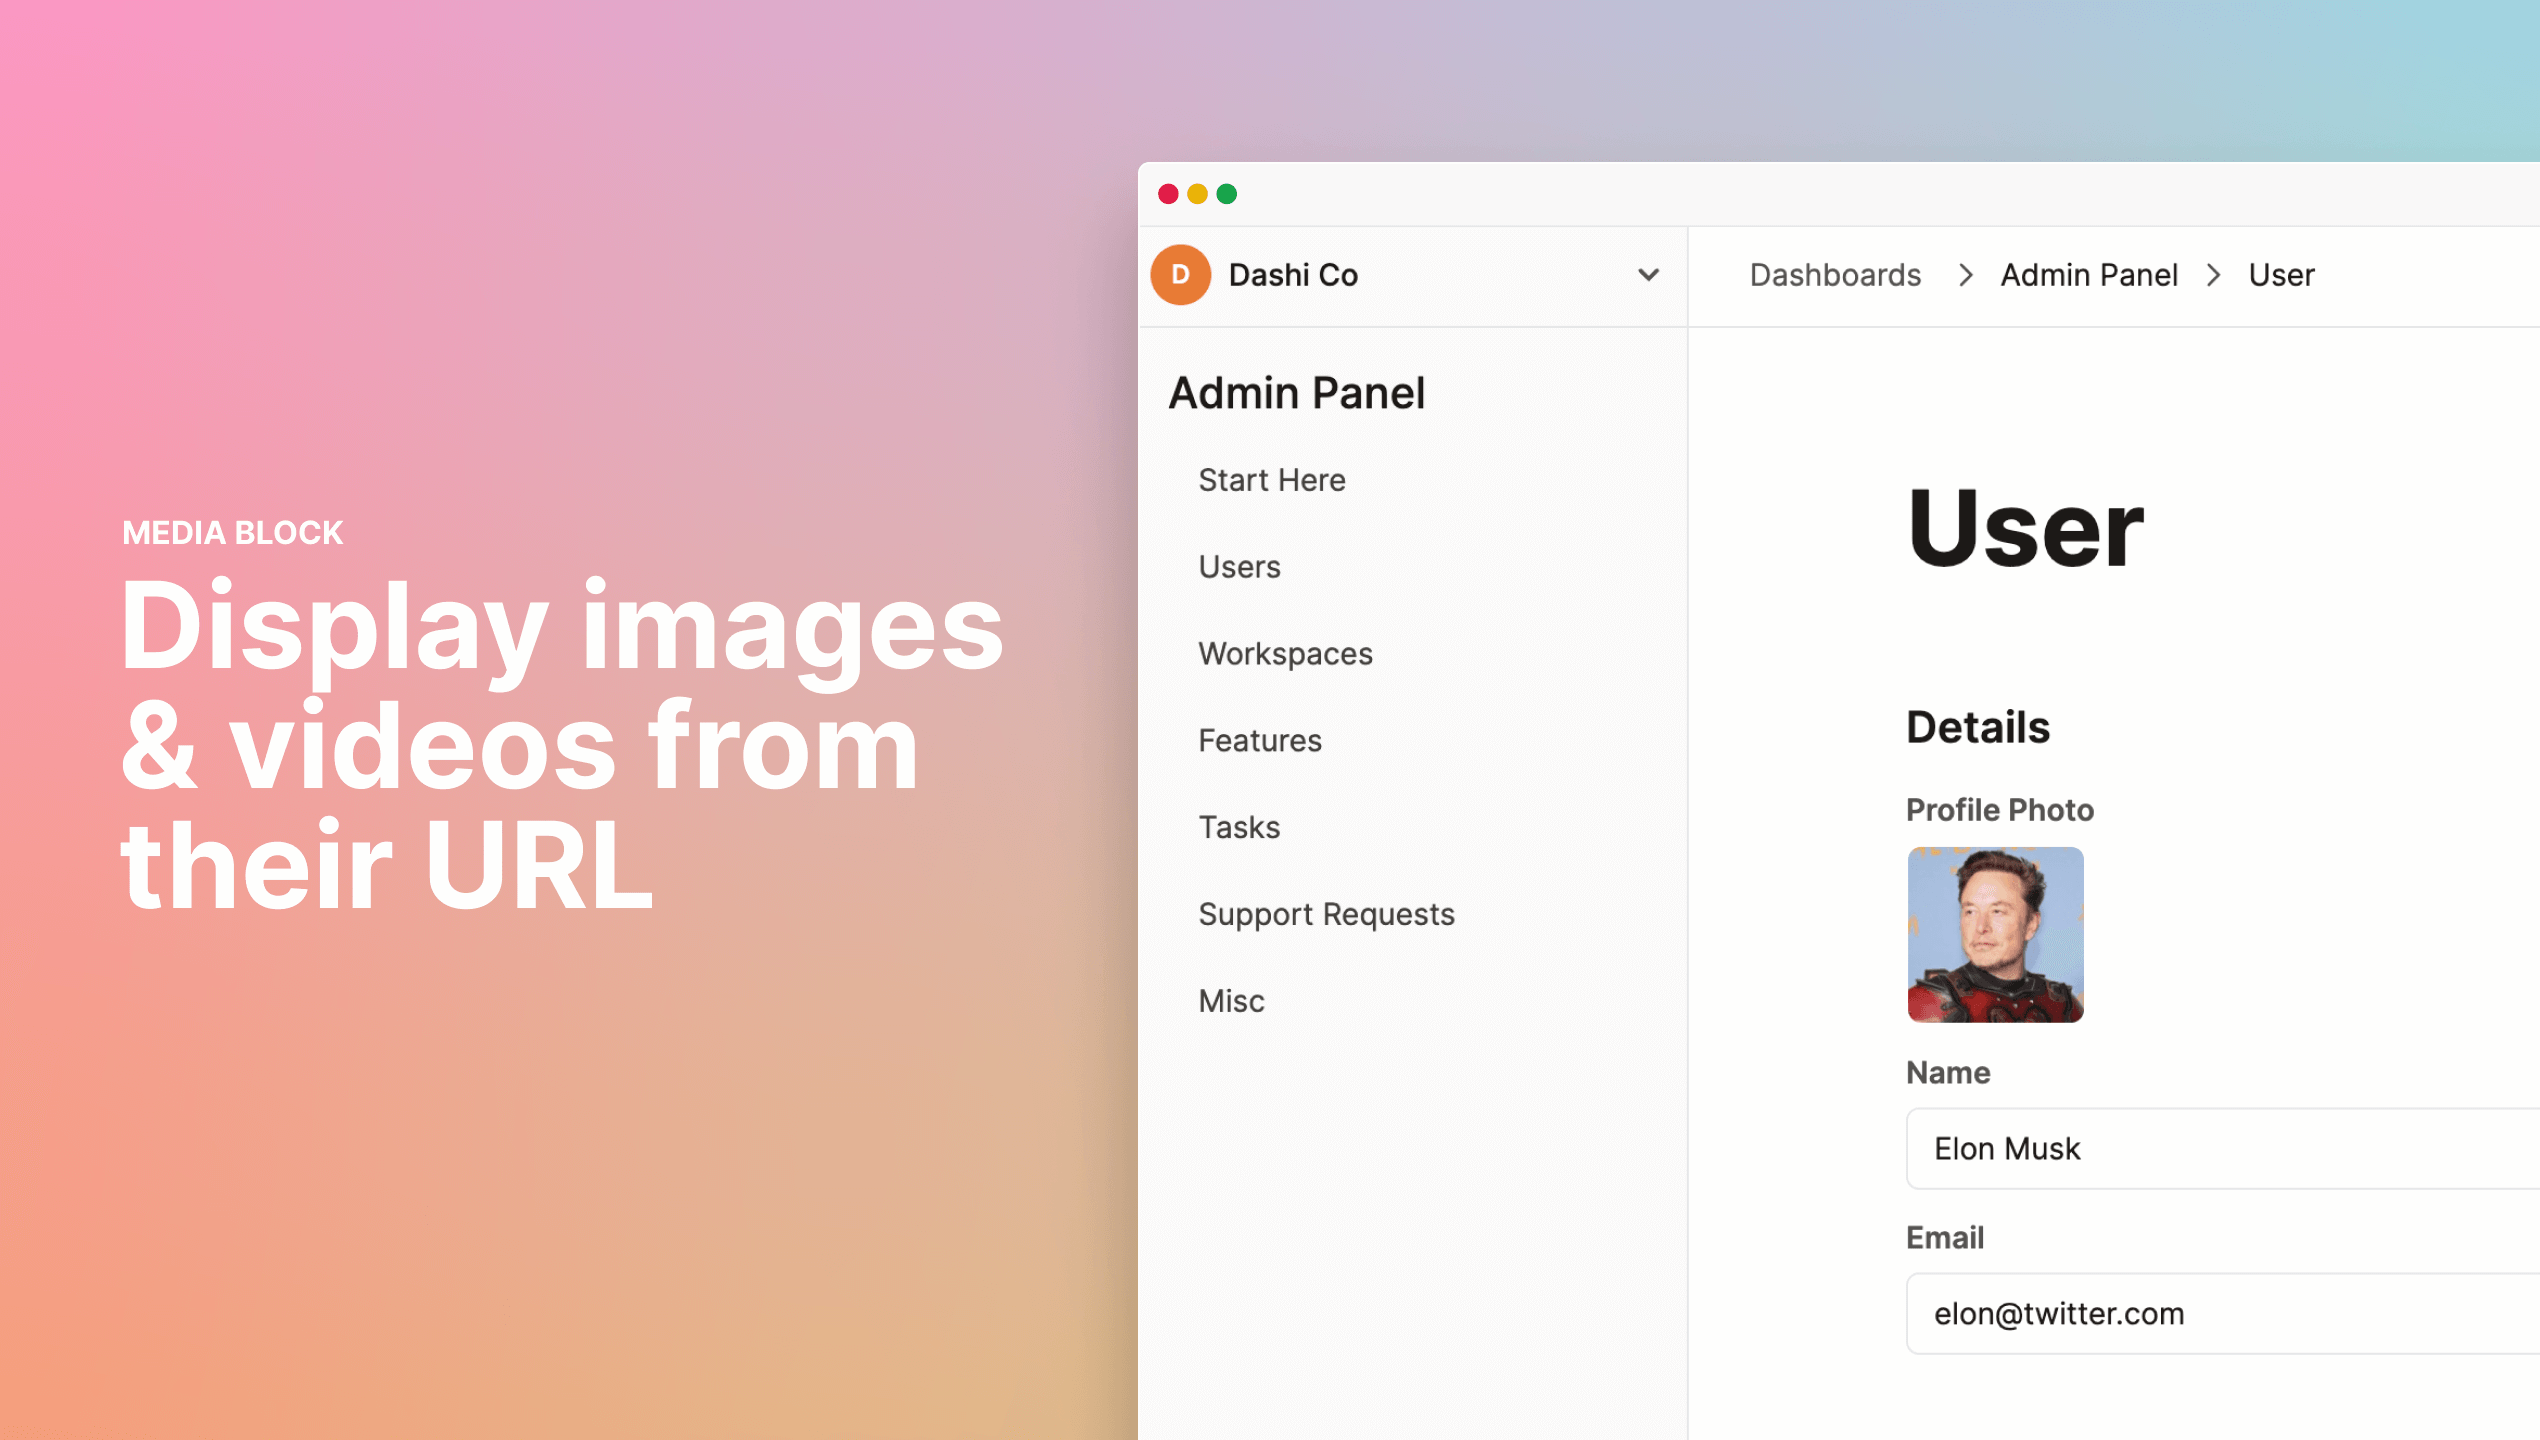
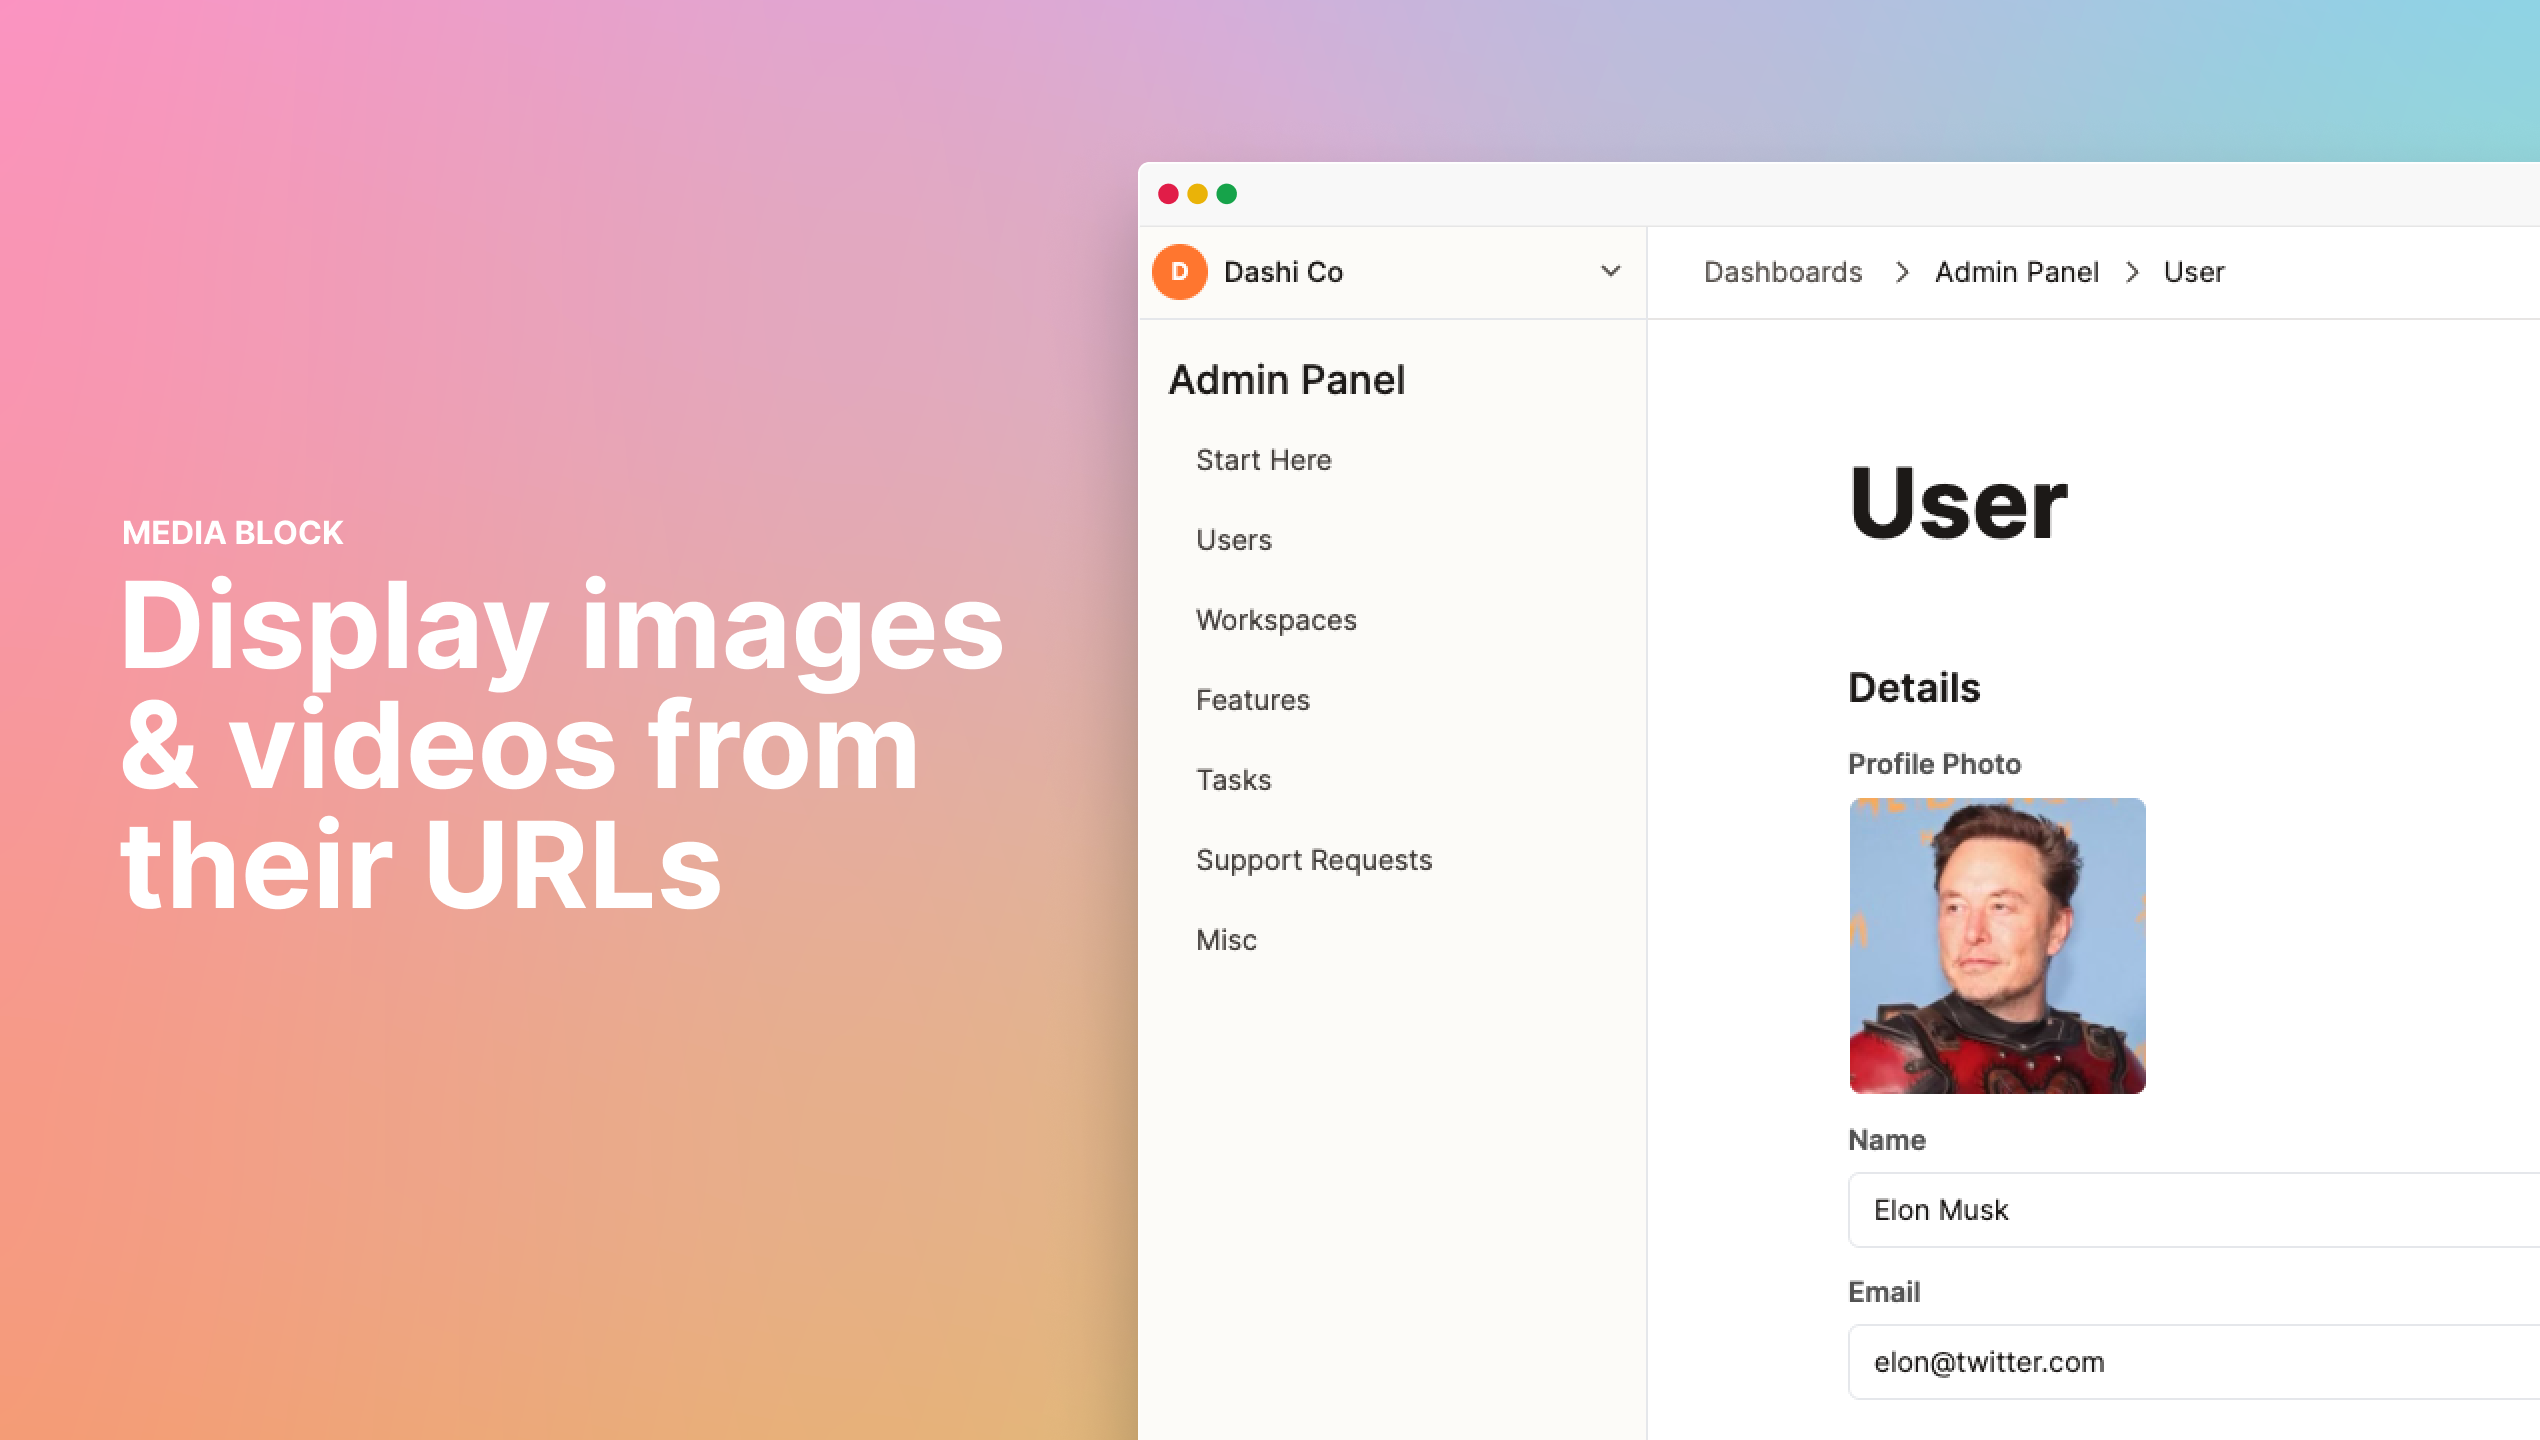
Update image and copy

diff --git a/changelog/2022-11-21.md b/changelog/2022-11-21.md
@@ -6,7 +6,7 @@ If you store image or video URLs, including YouTube, Vimeo, and Loom videos, you
 
 We try to detect fields that are image or video URLs and automatically set them to the Media block. You can also manually convert a field to the Media block by click on the block menu (⠿) on the left of the block.
 
-Once you have set the Media block, you can resize it by dragging the block frame on the right and bottom of the block.
+Once you have set the Media block, you can resize it by dragging the block frame on the right and bottom of the block. When you hover over the block, you will see the field to change the URL.
 
 Note that changing the URL renders the new image or video but doesn't update the field in your database. You would need to click "Save" on the record view to update your database.
 
